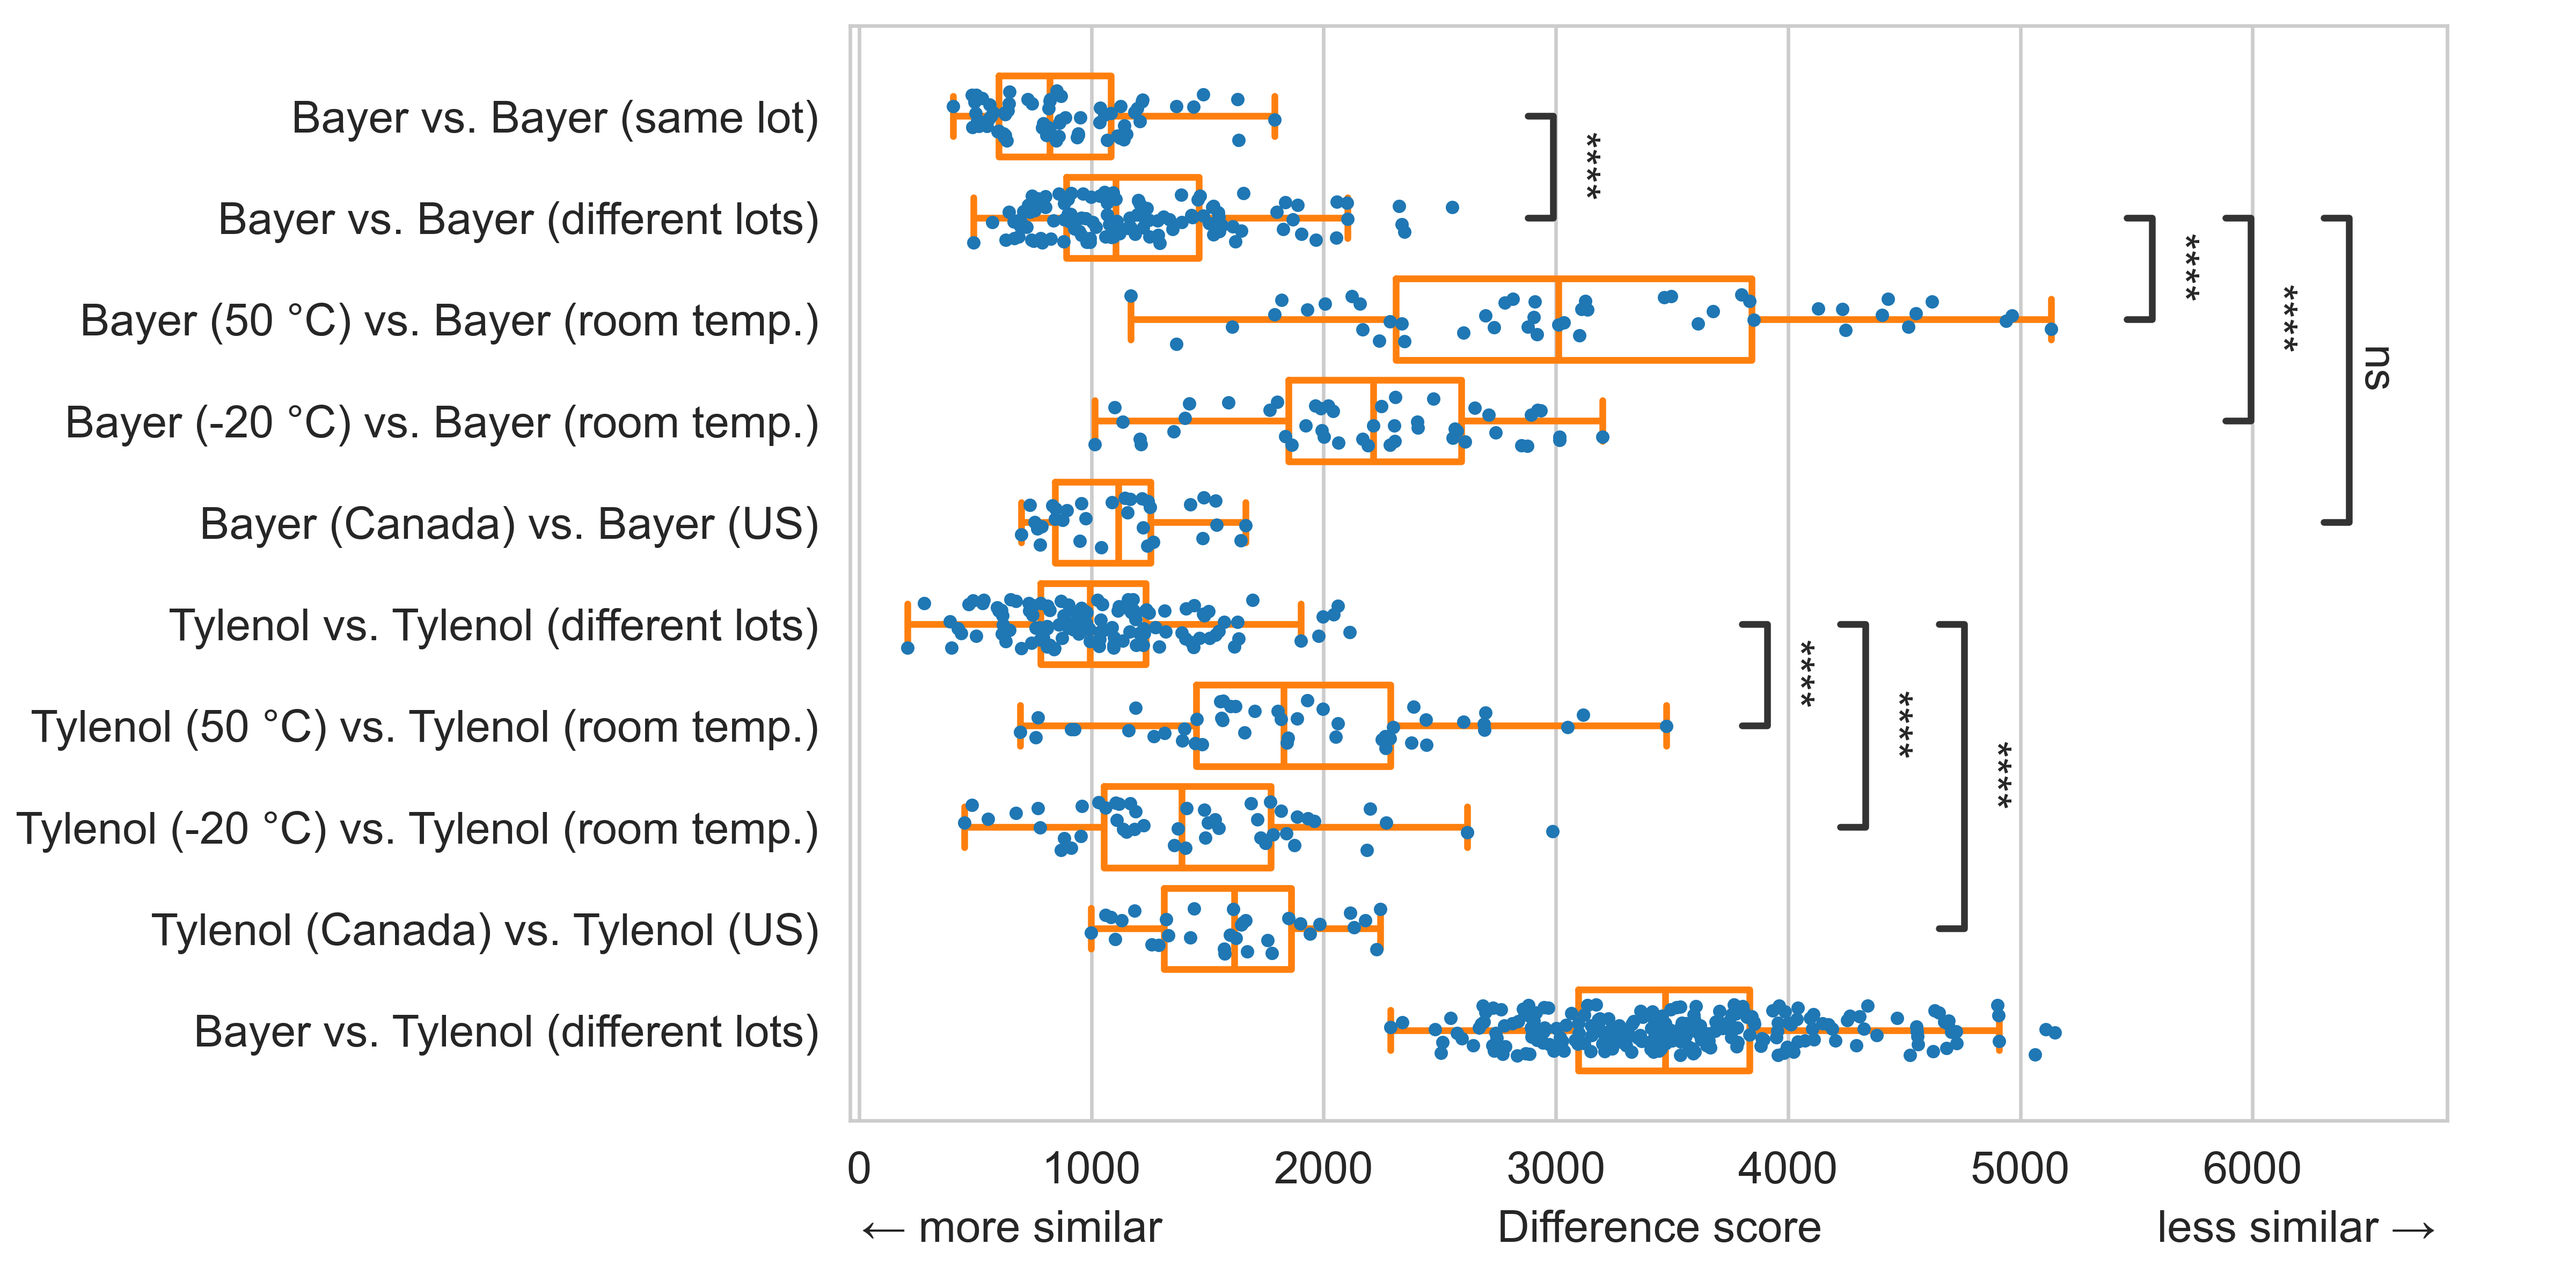
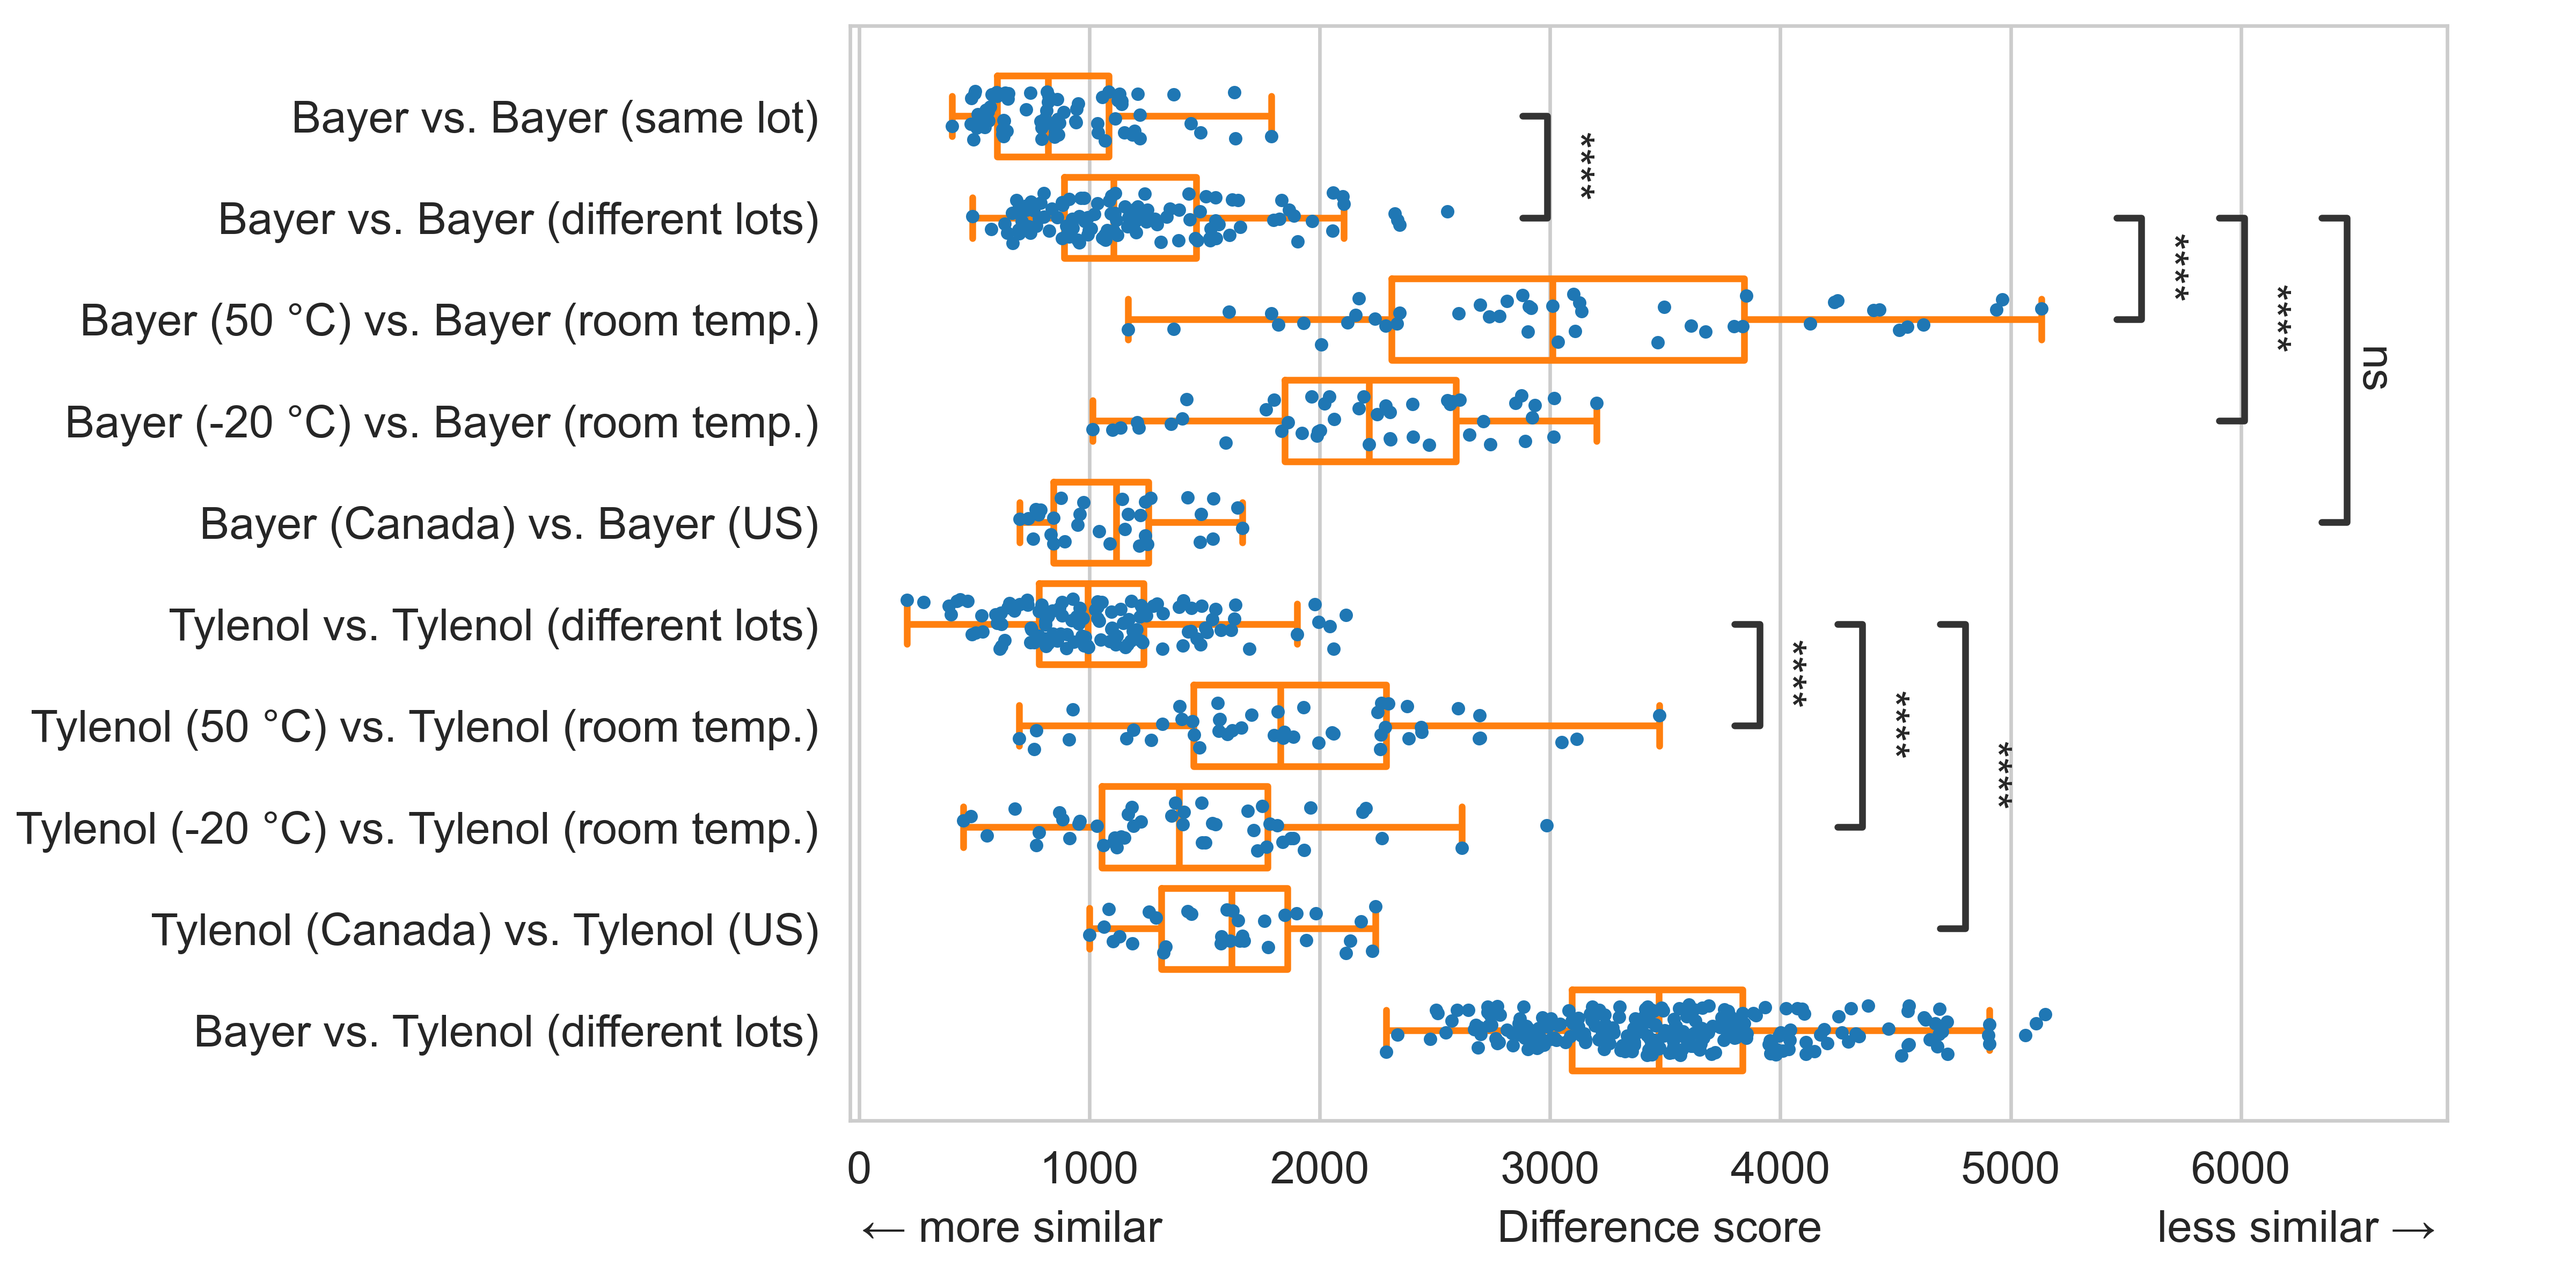
figure work

diff --git a/df-significance.py b/df-significance.py
@@ -126,7 +126,7 @@ elif args.figure == "bayer_tylenol":
 				print("NOTHING YET")
 
 	df = pd.DataFrame(uber, columns=["drugtype", "score"])
-	# df = df.drop_duplicates()
+	df = df.drop_duplicates()
 	# print(df)
 
 	order = ["Bayer vs. Bayer (same lot)",
@@ -159,14 +159,10 @@ elif args.figure == "bayer_tylenol":
 	axs.set_ylabel("")
 	plt.savefig("bayer_tylenol_significance.png", dpi=600)
 
-	print("MEAN:")
-	print(df[["drugtype", "score"]].groupby("drugtype").mean())
 	print()
-	print("MEDIAN:")
-	print(df[["drugtype", "score"]].groupby("drugtype").median())
-	print()
-	print("STD DEV:")
-	print(df[["drugtype", "score"]].groupby("drugtype").std())
+	print(df[["drugtype", "score"]].groupby("drugtype").describe())
+
+
 
 
 
